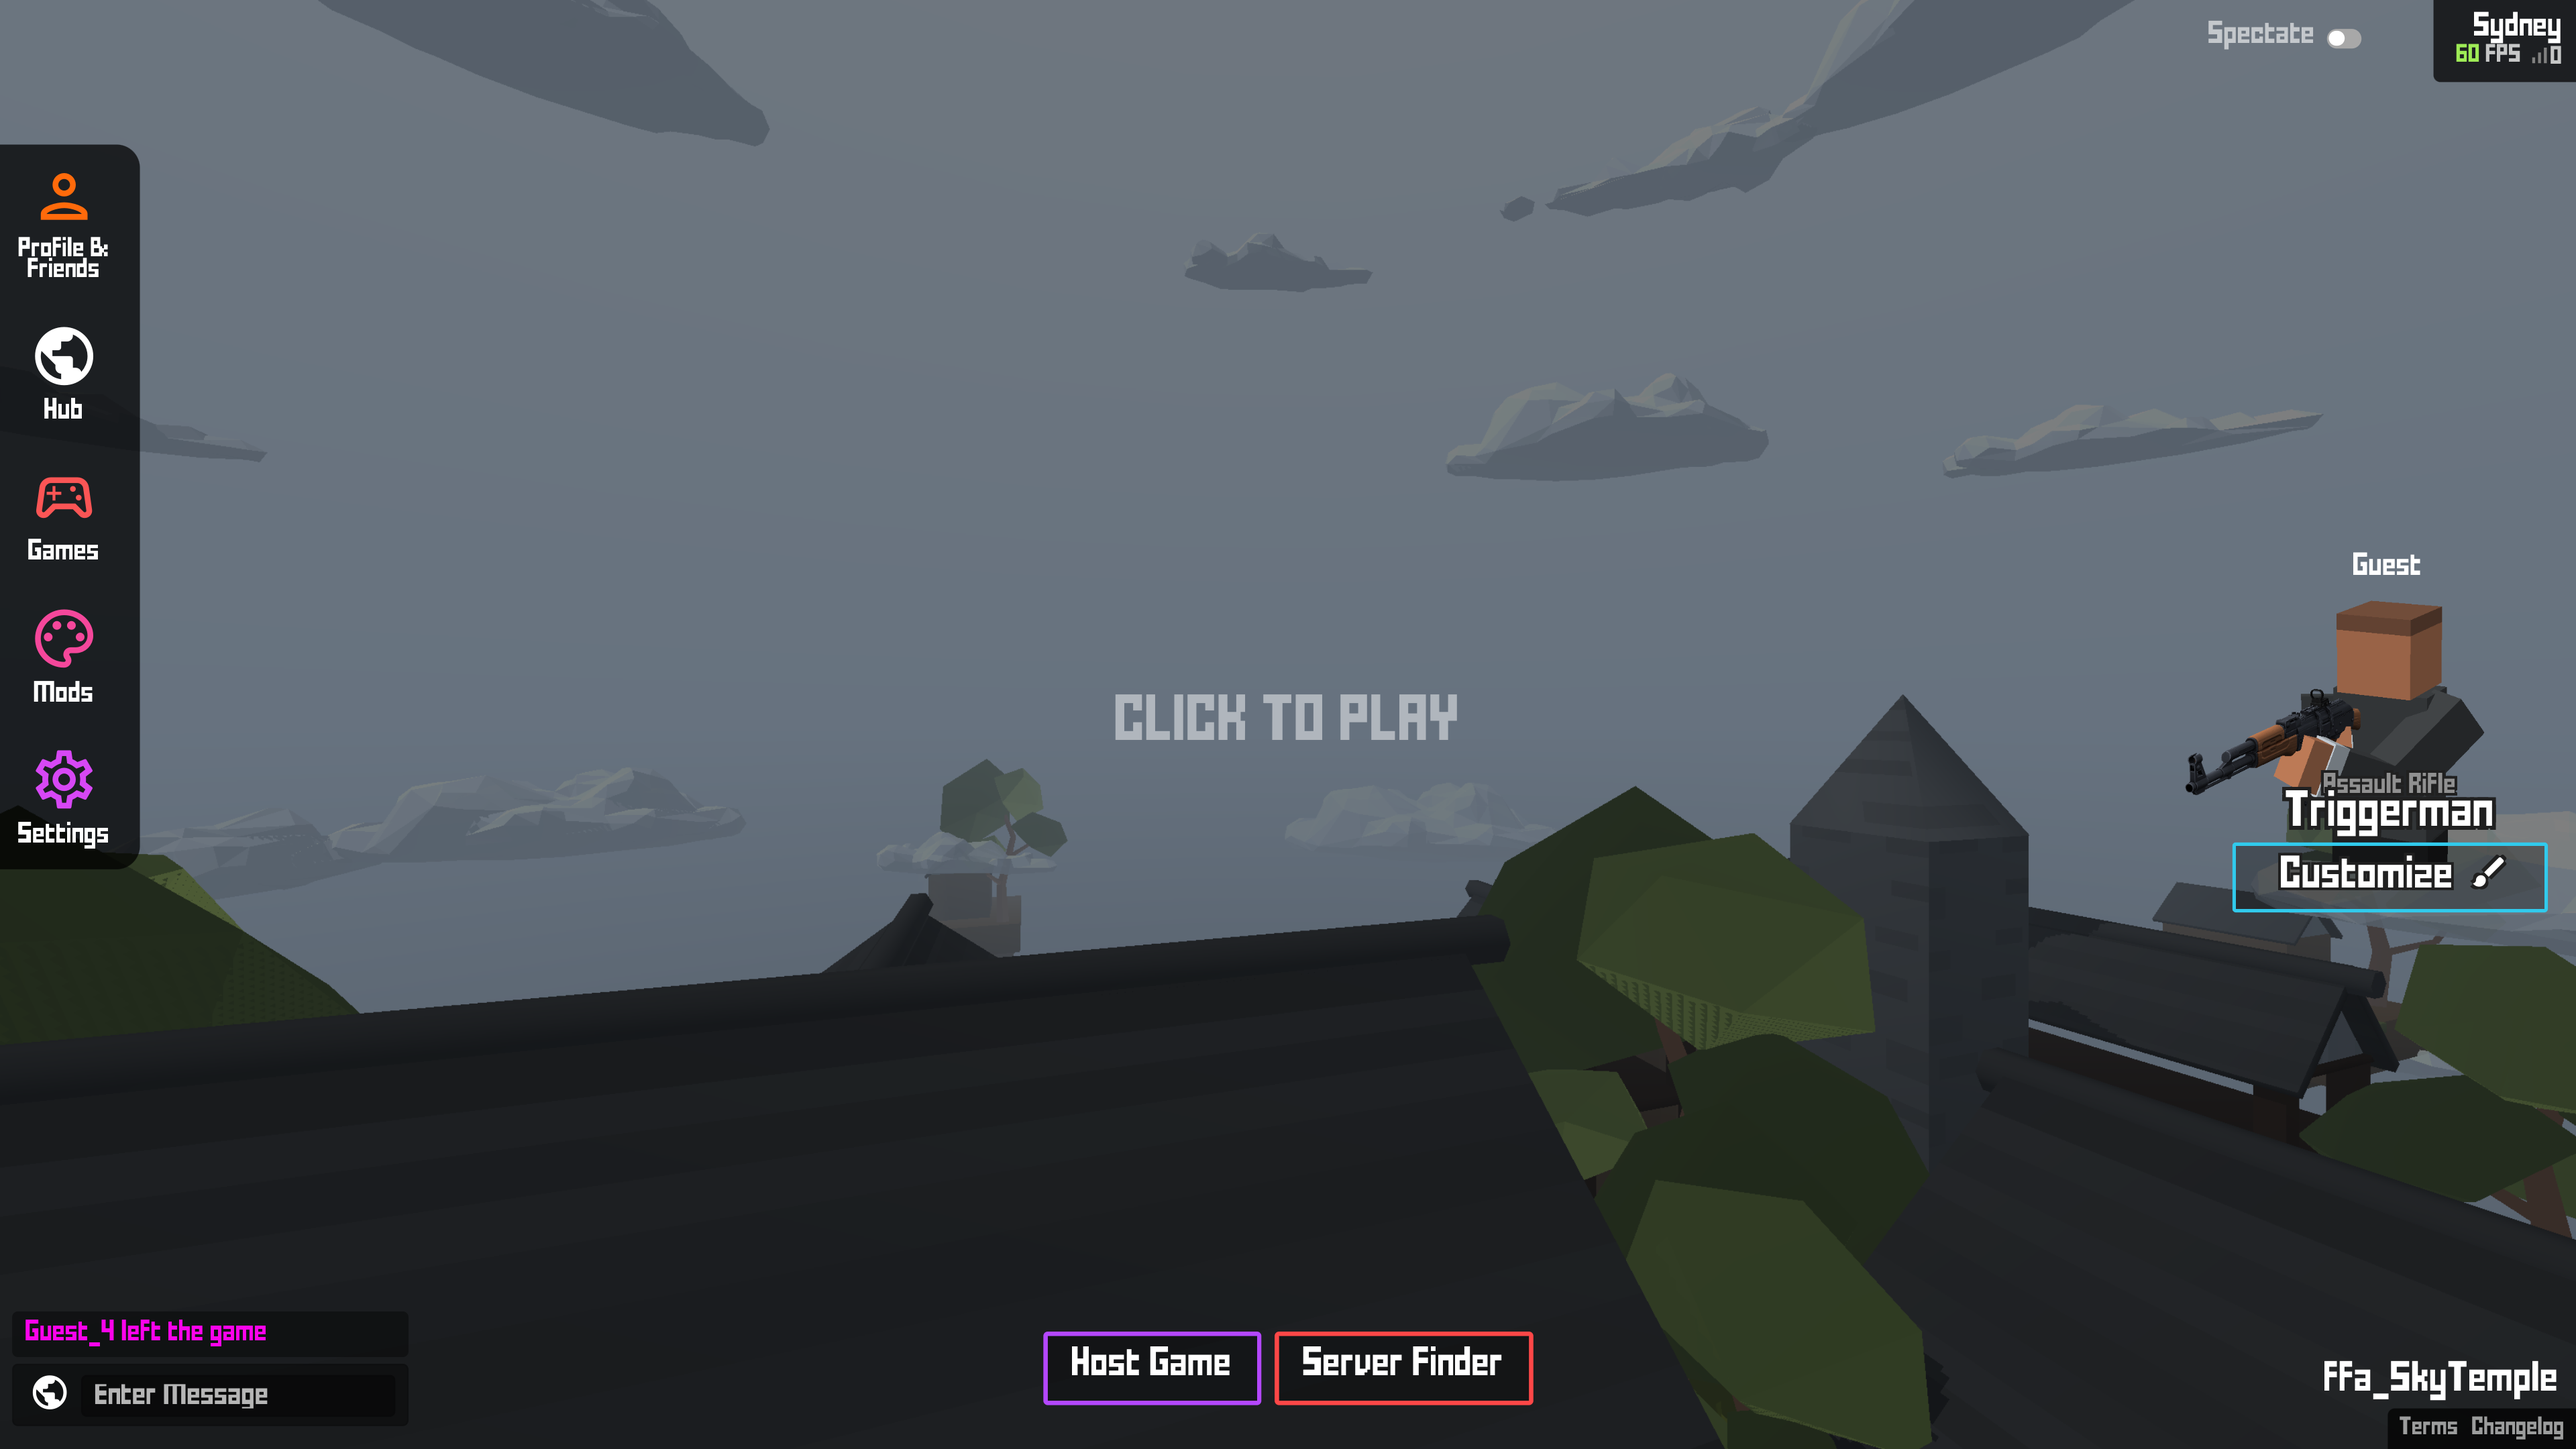
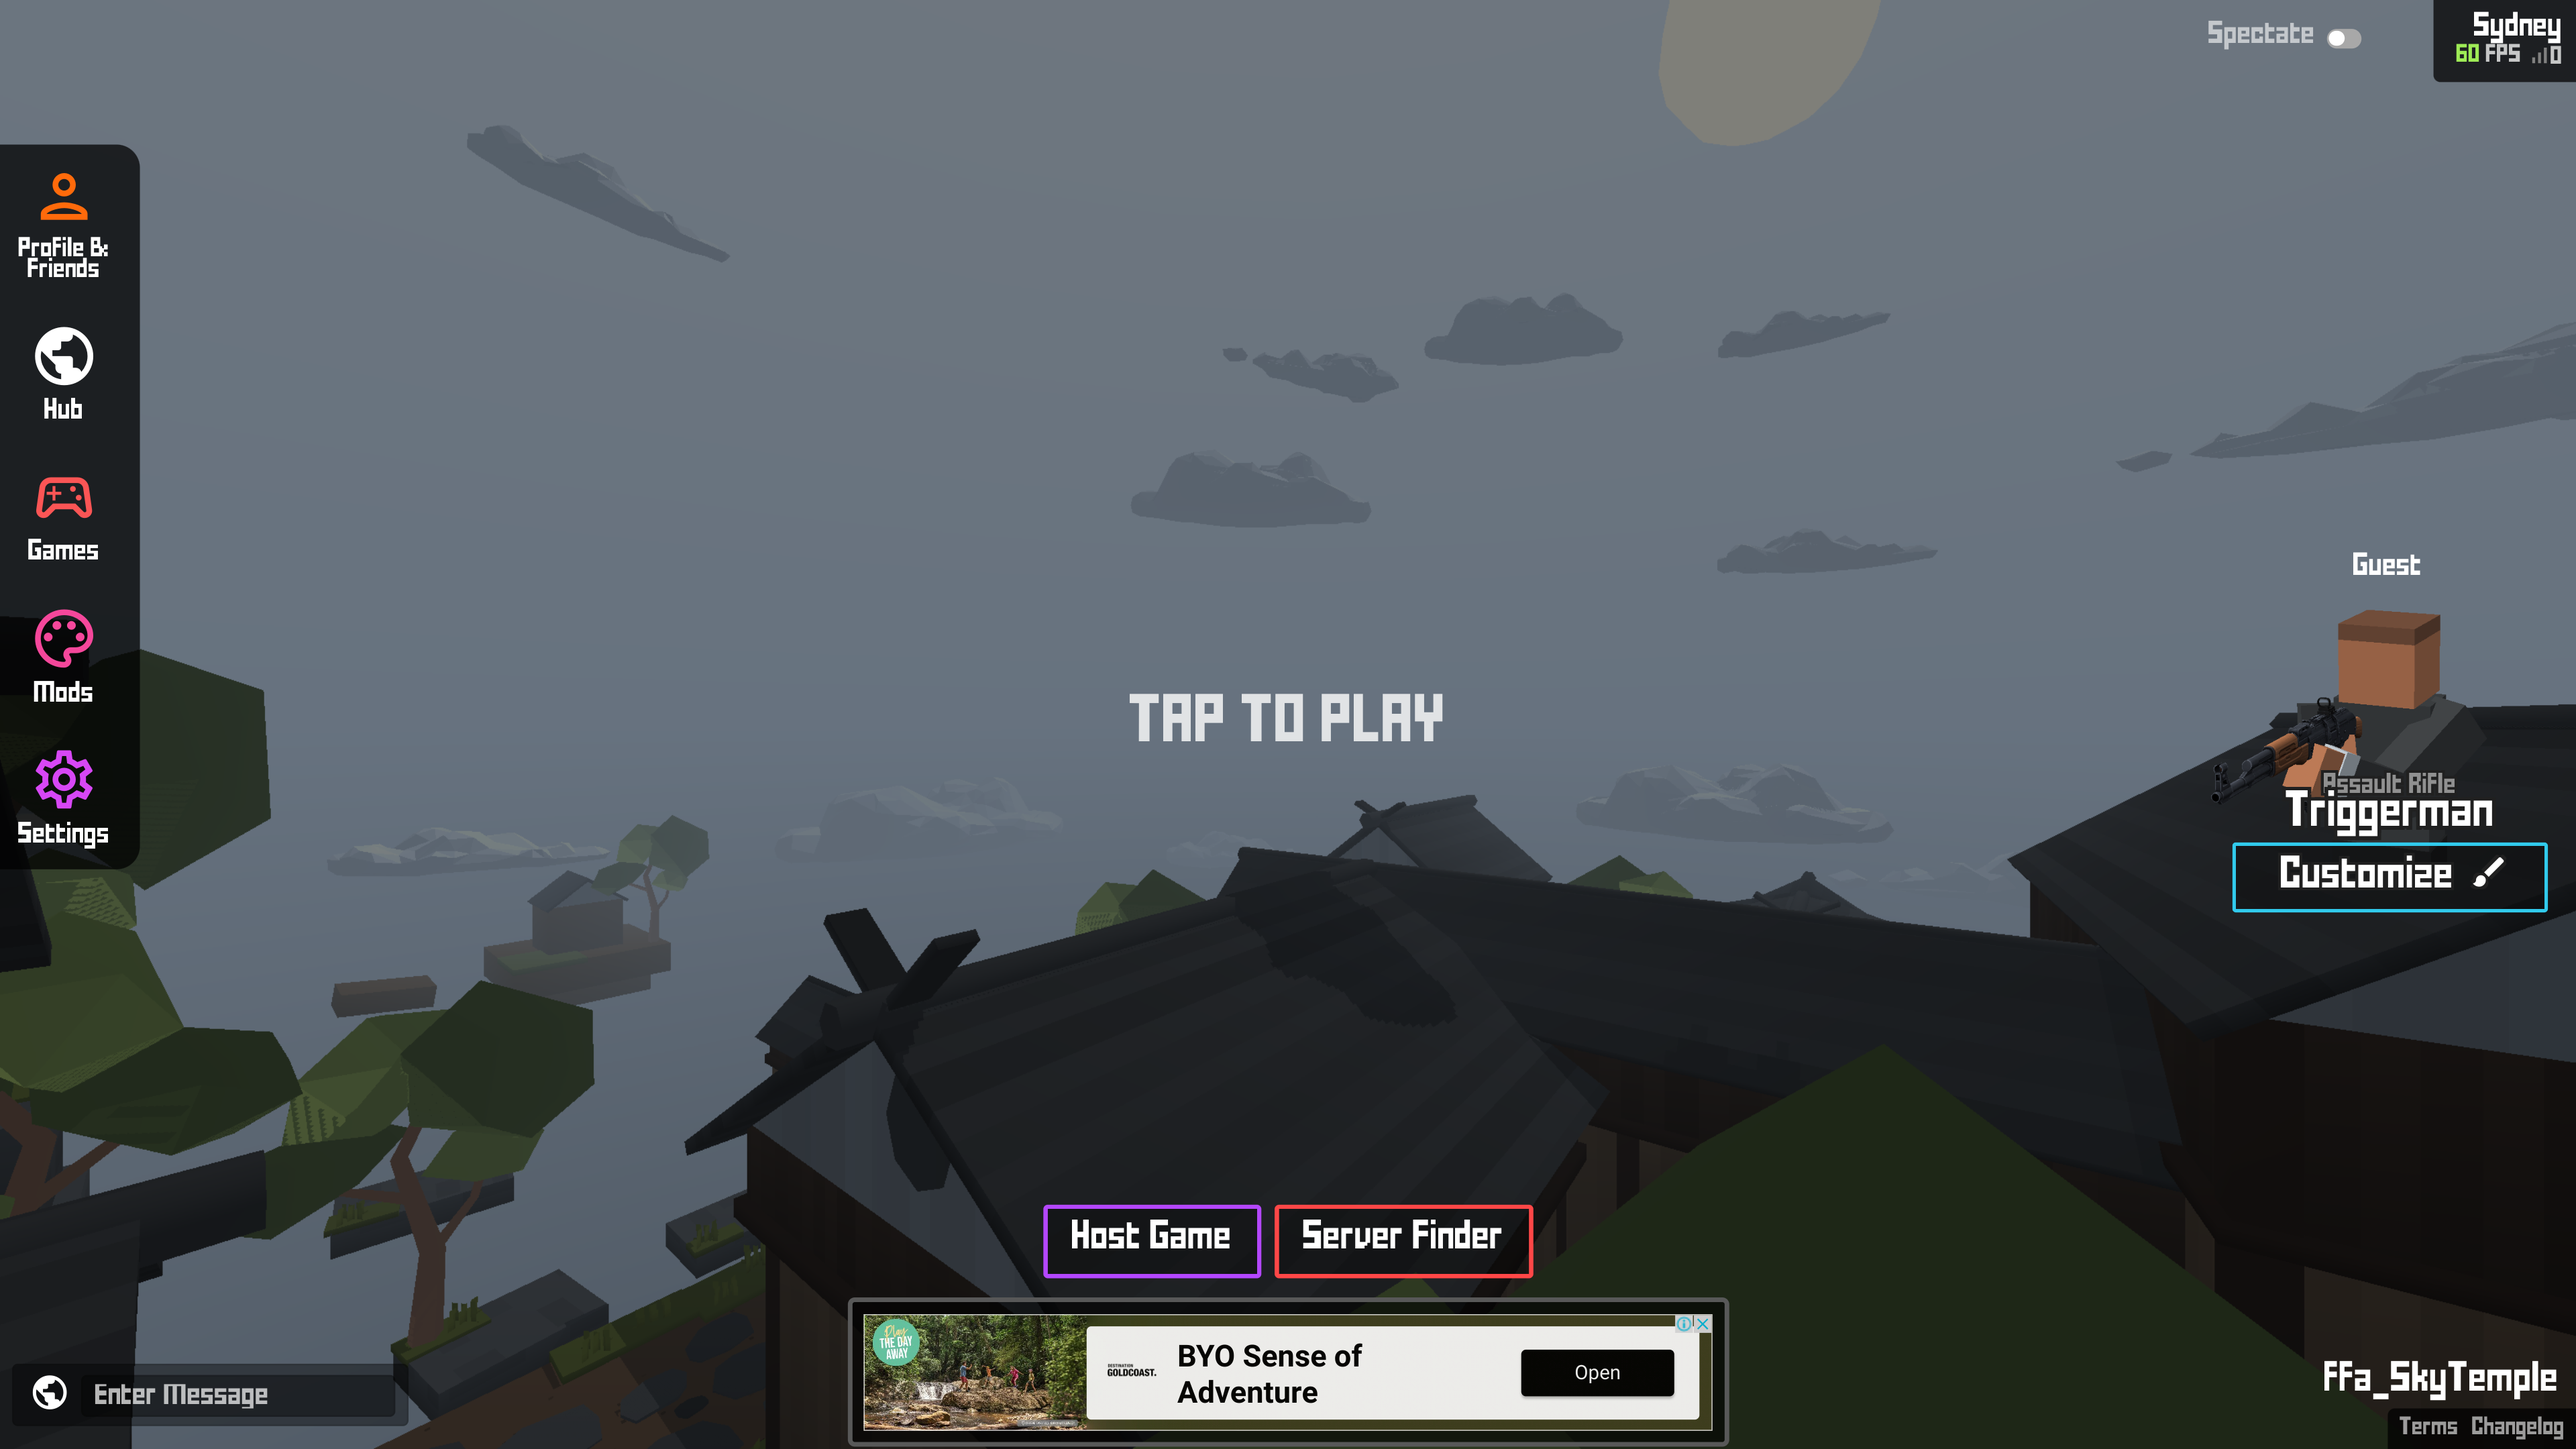
unhide aHolder

Changed region(s): [[0.0, 0.4032, 1.0, 1.0], [0.6562, 0.031, 0.7188, 0.1241]]

diff --git a/scripts/clean_ui.user.js b/scripts/clean_ui.user.js
@@ -49,13 +49,10 @@ div#termsInfo
 {
     font-size: 12px !important;
 }
+
 div#chatHolder
 {
     left: 10px !important;
-}
-
-div#subLogoButtons {
-    bottom: 30px !important;
 }
 
 div#menuClassContainer
@@ -169,7 +166,6 @@ img#mainLogoFace,
 .menuItem:nth-child(2),
 .menuItem:nth-child(5),
 .menuItem:nth-child(3),
-div#aHolder,
 div#gameNameHolder,
 img#mainLogo,
 div#txtBubble,

diff --git a/scripts/clean_ui_aggressive.user.js b/scripts/clean_ui_aggressive.user.js
@@ -49,13 +49,10 @@ div#termsInfo
 {
     font-size: 12px !important;
 }
+
 div#chatHolder
 {
     left: 10px !important;
-}
-
-div#subLogoButtons {
-    bottom: 30px !important;
 }
 
 div#menuClassContainer
@@ -169,7 +166,6 @@ img#mainLogoFace,
 .menuItem:nth-child(2),
 .menuItem:nth-child(5),
 .menuItem:nth-child(3),
-div#aHolder,
 div#gameNameHolder,
 img#mainLogo,
 div#txtBubble,
